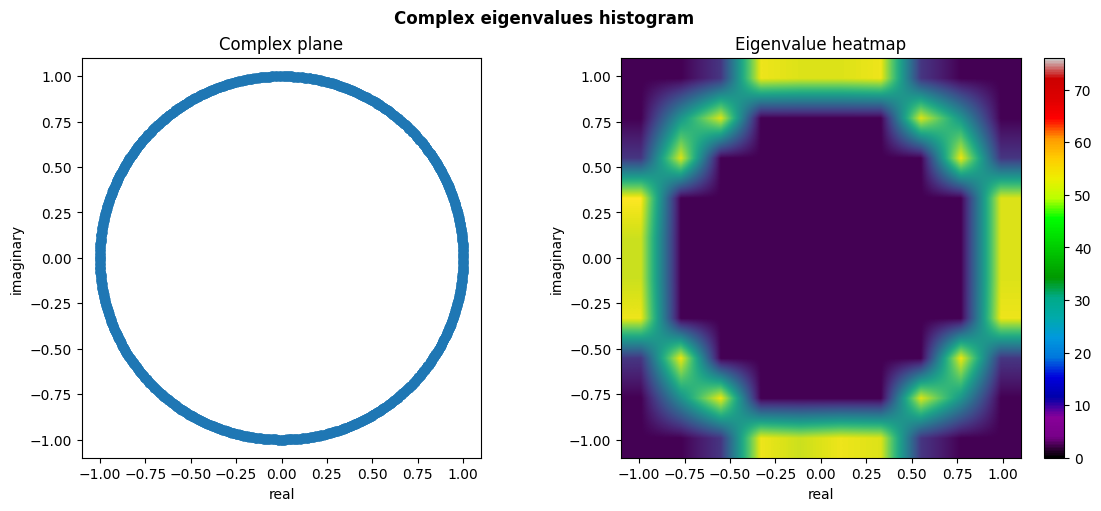
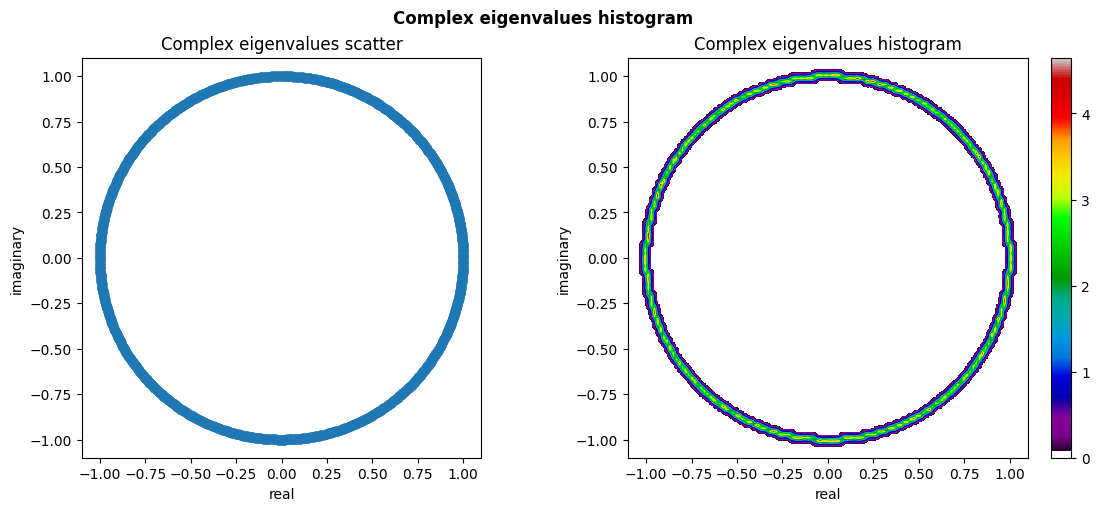
Update CSE imgs and README

diff --git a/README.md b/README.md
@@ -174,7 +174,7 @@ cse.plot_eigval_hist()
 ```
 ![CSE density plot](imgs/hist_cse.png)
 <!---
-<img src="imgs/hist_cse_smooth.png" width=650 height=320 alt="CSE density plot">
+<img src="imgs/hist_cse.png" width=650 height=320 alt="CSE density plot">
 -->
 
 We can **boost histogram representation** using the results described by A. Edelman and I. Dumitriu
